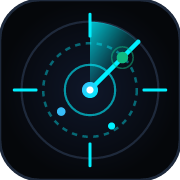
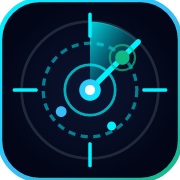
chore(ui): checkpoint static assets before redesign

Changed region(s): [[0.0556, 0.1944, 0.9444, 0.9444], [0.0, 0.0, 1.0, 1.0], [0.25, 0.0556, 0.5278, 0.4167]]

diff --git a/static/style.css b/static/style.css
@@ -546,7 +546,7 @@ button {
   display: flex;
   flex-wrap: wrap;
   align-items: center;
-  gap: var(--space-2);
+  gap: 6px;
 }
 
 .preset-label {
@@ -555,21 +555,25 @@ button {
   letter-spacing: 0.8px;
   text-transform: uppercase;
   margin-right: var(--space-1);
+  white-space: nowrap;
+  flex-shrink: 0;
 }
 
 .preset-chip {
   background: rgba(255, 255, 255, 0.04);
   border: 1px solid var(--border-muted);
   color: var(--text-secondary);
-  font-size: 13px;
-  padding: 7px 16px;
+  font-size: 11.5px;
+  padding: 5px 11px;
   border-radius: 999px;
   cursor: pointer;
   display: inline-flex;
   align-items: center;
-  gap: 6px;
+  gap: 5px;
   transition: all 0.2s ease;
   font-family: var(--font-sans);
+  white-space: nowrap;
+  flex-shrink: 0;
 }
 
 .preset-chip:hover {
@@ -1953,8 +1957,8 @@ select option {
 .sql-presets-bar {
   display: flex;
   flex-wrap: wrap;
-  gap: var(--space-2);
-  margin: var(--space-5) 0 var(--space-4);
+  gap: 6px;
+  margin: var(--space-4) 0 var(--space-4);
   align-items: center;
 }
 
@@ -1962,14 +1966,15 @@ select option {
   background: rgba(255, 255, 255, 0.03);
   border: 1px solid var(--border-subtle);
   color: var(--text-faint);
-  font-size: 12px;
+  font-size: 11px;
   font-family: var(--font-mono);
-  padding: 6px 13px;
+  padding: 5px 10px;
   border-radius: var(--radius-sm);
   cursor: pointer;
   display: inline-flex;
   align-items: center;
-  gap: 6px;
+  gap: 5px;
+  white-space: nowrap;
   transition: all 0.2s ease;
 }
 
@@ -2025,14 +2030,46 @@ select option {
   max-height: 280px;
   overflow-x: auto;
   overflow-y: auto;
+  scrollbar-width: thin;
+  scrollbar-color: rgba(167, 139, 250, 0.45) rgba(10, 10, 18, 0.8);
+}
+
+.sql-table-wrap::-webkit-scrollbar {
+  height: 8px;
+  width: 8px;
+}
+
+.sql-table-wrap::-webkit-scrollbar-track {
+  background: rgba(10, 10, 18, 0.7);
+  border-radius: 4px;
+}
+
+.sql-table-wrap::-webkit-scrollbar-thumb {
+  background: rgba(167, 139, 250, 0.35);
+  border-radius: 4px;
+  border: 1px solid rgba(167, 139, 250, 0.2);
+}
+
+.sql-table-wrap::-webkit-scrollbar-thumb:hover {
+  background: var(--accent);
 }
 
 .sql-table {
   width: 100%;
   border-collapse: collapse;
   font-family: var(--font-mono);
-  font-size: 12px;
+  font-size: 11.5px;
   text-align: left;
+}
+
+.sql-table.sql-table-fixed {
+  table-layout: fixed;
+  width: 100%;
+}
+
+.sql-table.sql-table-auto {
+  table-layout: auto;
+  min-width: 100%;
 }
 
 .sql-table th {
@@ -2040,7 +2077,7 @@ select option {
   top: 0;
   background: #1a1827;
   color: var(--accent);
-  padding: 9px 14px;
+  padding: 8px 12px;
   border-bottom: 1px solid var(--border-muted);
   font-size: 11px;
   letter-spacing: 0.5px;
@@ -2049,10 +2086,12 @@ select option {
 }
 
 .sql-table td {
-  padding: 8px 14px;
+  padding: 8px 12px;
   border-bottom: 1px solid rgba(255, 255, 255, 0.03);
   color: var(--text-secondary);
   white-space: nowrap;
+  overflow: hidden;
+  text-overflow: ellipsis;
 }
 
 .sql-table tr:hover td {

diff --git a/static/app.js b/static/app.js
@@ -939,6 +939,11 @@ document.addEventListener("DOMContentLoaded", () => {
         }
       });
     }
+
+    // Auto-run initial benchmark query so all 4 columns are populated on first view
+    setTimeout(() => {
+      executeDuckDbSql();
+    }, 350);
   }
 
   async function executeDuckDbSql() {
@@ -1020,21 +1025,48 @@ document.addEventListener("DOMContentLoaded", () => {
       return;
     }
 
-    const colsHtml = (data.columns || [])
-      .map((col) => `<th>${escapeHtml(col)}</th>`)
+    const cols = data.columns || [];
+    const isStandardView = cols.length <= 4;
+
+    let colgroupHtml = "";
+    if (isStandardView) {
+      colgroupHtml =
+        "<colgroup>" +
+        cols
+          .map((col) => {
+            const lower = col.toLowerCase();
+            if (lower === "title") return '<col style="width: 38%;">';
+            if (lower === "company_name" || lower === "company")
+              return '<col style="width: 27%;">';
+            if (lower === "location_type" || lower === "location")
+              return '<col style="width: 18%;">';
+            if (lower === "salary" || lower === "salary_raw")
+              return '<col style="width: 17%;">';
+            return `<col style="width: ${Math.floor(100 / cols.length)}%;">`;
+          })
+          .join("") +
+        "</colgroup>";
+    }
+
+    const colsHtml = cols
+      .map((col) => `<th title="${escapeHtml(col)}">${escapeHtml(col)}</th>`)
       .join("");
 
     const rowsHtml = (data.rows || [])
       .map((row) => {
         const cells = row
-          .map((cell) => `<td>${escapeHtml(cell)}</td>`)
+          .map((cell) => {
+            const val = cell !== null && cell !== undefined ? String(cell) : "";
+            return `<td title="${escapeHtml(val)}">${escapeHtml(val)}</td>`;
+          })
           .join("");
         return `<tr>${cells}</tr>`;
       })
       .join("");
 
     sqlTableWrap.innerHTML = `
-      <table class="sql-table">
+      <table class="sql-table ${isStandardView ? "sql-table-fixed" : "sql-table-auto"}">
+        ${colgroupHtml}
         <thead><tr>${colsHtml}</tr></thead>
         <tbody>${rowsHtml}</tbody>
       </table>
@@ -1457,8 +1489,8 @@ document.addEventListener("DOMContentLoaded", () => {
       const data = await res.json();
       if (data.status === "healthy") {
         apiStatusText.textContent = data.serpapi_configured
-          ? "SERPAPI: LIVE ONLINE"
-          : "SERPAPI: DEMO CORPUS";
+          ? "SERPAPI: LIVE ENGINE ACTIVE"
+          : "SERPAPI: UNCONFIGURED";
         if (apiStatusPill) {
           apiStatusPill.classList.toggle(
             "status-online",

diff --git a/static/index.html b/static/index.html
@@ -71,27 +71,27 @@
     </script>
 
     <!-- Favicon & Brand Icons -->
-    <link rel="icon" type="image/svg+xml" href="/static/favicon.svg" />
-    <link rel="alternate icon" href="/static/favicon.ico" />
+    <link rel="icon" type="image/svg+xml" href="/static/favicon.svg?v=2" />
+    <link rel="alternate icon" href="/static/favicon.ico?v=2" />
     <link
       rel="icon"
       type="image/png"
       sizes="32x32"
-      href="/static/favicon-32x32.png"
+      href="/static/favicon-32x32.png?v=2"
     />
     <link
       rel="icon"
       type="image/png"
       sizes="16x16"
-      href="/static/favicon-16x16.png"
+      href="/static/favicon-16x16.png?v=2"
     />
     <link
       rel="apple-touch-icon"
       sizes="180x180"
-      href="/static/apple-touch-icon.png"
+      href="/static/apple-touch-icon.png?v=2"
     />
 
-    <link rel="stylesheet" href="/static/style.css" />
+    <link rel="stylesheet" href="/static/style.css?v=20261002" />
     <link rel="preconnect" href="https://fonts.googleapis.com" />
     <link rel="preconnect" href="https://fonts.gstatic.com" crossorigin />
     <link

diff --git a/scripts/build_brand_assets.py b/scripts/build_brand_assets.py
@@ -18,69 +18,95 @@ STATIC_DIR = os.path.join(PROJECT_ROOT, "static")
 ICON_SVG = """<svg xmlns="http://www.w3.org/2000/svg" viewBox="0 0 100 100" width="100%" height="100%">
   <defs>
     <radialGradient id="radarBg" cx="50%" cy="50%" r="50%">
-      <stop offset="0%" stop-color="#0f172a" />
-      <stop offset="100%" stop-color="#05070a" />
+      <stop offset="0%" stop-color="#0c1633" />
+      <stop offset="100%" stop-color="#020617" />
     </radialGradient>
+    <linearGradient id="neonRim" x1="0%" y1="0%" x2="100%" y2="100%">
+      <stop offset="0%" stop-color="#00f2fe" />
+      <stop offset="50%" stop-color="#38bdf8" />
+      <stop offset="100%" stop-color="#10b981" />
+    </linearGradient>
     <linearGradient id="cyanSweep" x1="0%" y1="0%" x2="100%" y2="100%">
-      <stop offset="0%" stop-color="#00f0ff" stop-opacity="0.8" />
-      <stop offset="50%" stop-color="#00f0ff" stop-opacity="0.2" />
-      <stop offset="100%" stop-color="#00f0ff" stop-opacity="0.0" />
+      <stop offset="0%" stop-color="#00f2fe" stop-opacity="0.85" />
+      <stop offset="50%" stop-color="#00f2fe" stop-opacity="0.25" />
+      <stop offset="100%" stop-color="#00f2fe" stop-opacity="0.0" />
     </linearGradient>
     <linearGradient id="neonGlow" x1="0%" y1="0%" x2="100%" y2="100%">
       <stop offset="0%" stop-color="#38bdf8" />
-      <stop offset="100%" stop-color="#00f0ff" />
+      <stop offset="100%" stop-color="#00f2fe" />
     </linearGradient>
   </defs>
 
-  <!-- Base Rounded Container with subtle cyan border -->
-  <rect width="100" height="100" rx="22" fill="url(#radarBg)" stroke="#1e293b" stroke-width="1.5"/>
+  <!-- Base Rounded Container with Glowing Dual-Gradient Rim -->
+  <rect width="100" height="100" rx="22" fill="url(#radarBg)" stroke="url(#neonRim)" stroke-width="2.5"/>
 
   <!-- Radar Concentric Rings -->
-  <circle cx="50" cy="50" r="38" fill="none" stroke="#1e293b" stroke-width="1.2"/>
-  <circle cx="50" cy="50" r="26" fill="none" stroke="#00f0ff" stroke-width="1.4" stroke-opacity="0.4" stroke-dasharray="3 3"/>
-  <circle cx="50" cy="50" r="14" fill="none" stroke="#00f0ff" stroke-width="1.2" stroke-opacity="0.6"/>
+  <circle cx="50" cy="50" r="38" fill="none" stroke="#1e293b" stroke-width="1.5"/>
+  <circle cx="50" cy="50" r="26" fill="none" stroke="#00f2fe" stroke-width="1.8" stroke-opacity="0.5" stroke-dasharray="4 3"/>
+  <circle cx="50" cy="50" r="14" fill="none" stroke="#00f2fe" stroke-width="1.5" stroke-opacity="0.7"/>
 
   <!-- Precision Crosshairs -->
-  <line x1="50" y1="8" x2="50" y2="20" stroke="#00f0ff" stroke-width="1.8" stroke-linecap="round"/>
-  <line x1="50" y1="80" x2="50" y2="92" stroke="#00f0ff" stroke-width="1.8" stroke-linecap="round"/>
-  <line x1="8" y1="50" x2="20" y2="50" stroke="#00f0ff" stroke-width="1.8" stroke-linecap="round"/>
-  <line x1="80" y1="50" x2="92" y2="50" stroke="#00f0ff" stroke-width="1.8" stroke-linecap="round"/>
+  <line x1="50" y1="8" x2="50" y2="20" stroke="#00f2fe" stroke-width="2" stroke-linecap="round"/>
+  <line x1="50" y1="80" x2="50" y2="92" stroke="#00f2fe" stroke-width="2" stroke-linecap="round"/>
+  <line x1="8" y1="50" x2="20" y2="50" stroke="#00f2fe" stroke-width="2" stroke-linecap="round"/>
+  <line x1="80" y1="50" x2="92" y2="50" stroke="#00f2fe" stroke-width="2" stroke-linecap="round"/>
 
   <!-- Active 45-degree Radar Sweep Sector -->
   <path d="M 50 50 L 76.8 23.2 A 38 38 0 0 0 50 12 Z" fill="url(#cyanSweep)"/>
-  <line x1="50" y1="50" x2="76.8" y2="23.2" stroke="#00f0ff" stroke-width="2.5" stroke-linecap="round"/>
+  <line x1="50" y1="50" x2="76.8" y2="23.2" stroke="#00f2fe" stroke-width="3" stroke-linecap="round"/>
 
-  <!-- Telemetry Detection Nodes (Active Job Matches) -->
-  <circle cx="68" cy="32" r="3.2" fill="#10b981"/>
-  <circle cx="68" cy="32" r="6" fill="none" stroke="#10b981" stroke-width="0.8" stroke-opacity="0.5"/>
+  <!-- Telemetry Detection Nodes (Active Job Matches in Neon Emerald) -->
+  <circle cx="68" cy="32" r="7" fill="none" stroke="#10b981" stroke-width="1.2" stroke-opacity="0.7"/>
+  <circle cx="68" cy="32" r="4" fill="#10b981"/>
 
-  <circle cx="34" cy="62" r="2.4" fill="#38bdf8"/>
-  <circle cx="62" cy="70" r="2" fill="#00f0ff"/>
+  <circle cx="34" cy="62" r="3" fill="#38bdf8"/>
+  <circle cx="62" cy="70" r="2.5" fill="#00f2fe"/>
 
   <!-- Radar Core Emitter -->
-  <circle cx="50" cy="50" r="4.5" fill="url(#neonGlow)"/>
-  <circle cx="50" cy="50" r="2" fill="#ffffff"/>
+  <circle cx="50" cy="50" r="6" fill="url(#neonGlow)"/>
+  <circle cx="50" cy="50" r="2.8" fill="#ffffff"/>
 </svg>"""
 
 # 2. Responsive Vector Favicon (Works on Light & Dark browser tabs)
 FAVICON_SVG = """<svg xmlns="http://www.w3.org/2000/svg" viewBox="0 0 32 32">
   <defs>
-    <style>
-      .bg { fill: #0a0b0e; }
-      .ring { stroke: #00f0ff; stroke-width: 1.5; fill: none; }
-      .core { fill: #00f0ff; }
-      .blip { fill: #10b981; }
-      @media (prefers-color-scheme: light) {
-        .bg { fill: #0f172a; }
-      }
-    </style>
+    <radialGradient id="favBg" cx="50%" cy="50%" r="50%">
+      <stop offset="0%" stop-color="#0b1329" />
+      <stop offset="100%" stop-color="#030712" />
+    </radialGradient>
+    <linearGradient id="favRim" x1="0%" y1="0%" x2="100%" y2="100%">
+      <stop offset="0%" stop-color="#00f2fe" />
+      <stop offset="50%" stop-color="#38bdf8" />
+      <stop offset="100%" stop-color="#10b981" />
+    </linearGradient>
+    <linearGradient id="favSweep" x1="0%" y1="0%" x2="100%" y2="100%">
+      <stop offset="0%" stop-color="#00f2fe" stop-opacity="0.9" />
+      <stop offset="60%" stop-color="#00f2fe" stop-opacity="0.25" />
+      <stop offset="100%" stop-color="#00f2fe" stop-opacity="0.0" />
+    </linearGradient>
   </defs>
-  <rect width="32" height="32" rx="7" class="bg"/>
-  <circle cx="16" cy="16" r="11" class="ring" stroke-opacity="0.3" stroke-dasharray="2 1"/>
-  <circle cx="16" cy="16" r="7" class="ring" stroke-opacity="0.7"/>
-  <line x1="16" y1="16" x2="24" y2="8" stroke="#00f0ff" stroke-width="2" stroke-linecap="round"/>
-  <circle cx="16" cy="16" r="2.2" class="core"/>
-  <circle cx="21" cy="11" r="1.5" class="blip"/>
+
+  <!-- High-Contrast Squircle Shield with Glowing Neon Rim -->
+  <rect width="32" height="32" rx="7.5" fill="url(#favBg)" stroke="url(#favRim)" stroke-width="1.2"/>
+
+  <!-- Radar Distance Ring -->
+  <circle cx="16" cy="16" r="10.5" fill="none" stroke="#1e293b" stroke-width="1"/>
+  <circle cx="16" cy="16" r="7" fill="none" stroke="#00f2fe" stroke-width="1" stroke-opacity="0.4" stroke-dasharray="2 1.5"/>
+
+  <!-- Radar Sweep Sector Beam -->
+  <path d="M 16 16 L 24.5 7.5 A 12 12 0 0 0 16 4 Z" fill="url(#favSweep)"/>
+  <line x1="16" y1="16" x2="24.5" y2="7.5" stroke="#00f2fe" stroke-width="1.8" stroke-linecap="round"/>
+
+  <!-- Active Telemetry Job Hit (Cyber Emerald Blip with Halo) -->
+  <circle cx="21" cy="9.5" r="2.8" fill="none" stroke="#10b981" stroke-width="0.8" stroke-opacity="0.8"/>
+  <circle cx="21" cy="9.5" r="1.8" fill="#10b981"/>
+
+  <!-- Secondary Match Blip -->
+  <circle cx="10" cy="20" r="1.2" fill="#38bdf8"/>
+
+  <!-- Core Pulse Emitter -->
+  <circle cx="16" cy="16" r="3" fill="#00f2fe"/>
+  <circle cx="16" cy="16" r="1.5" fill="#ffffff"/>
 </svg>"""
 
 # 3. Full Brand Logo (Horizontal layout for Header & Presentations)
